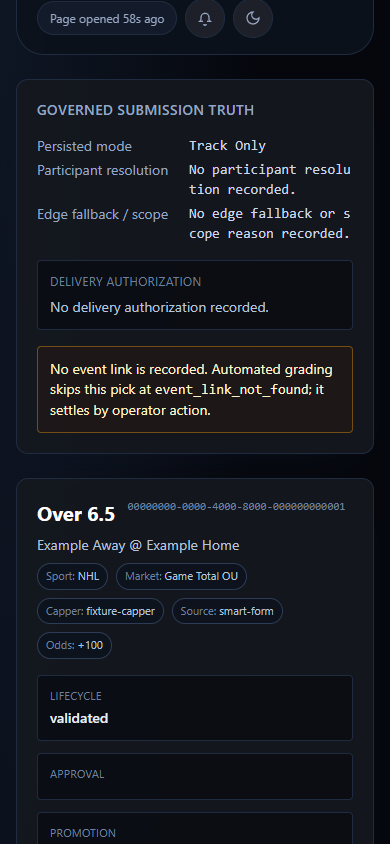
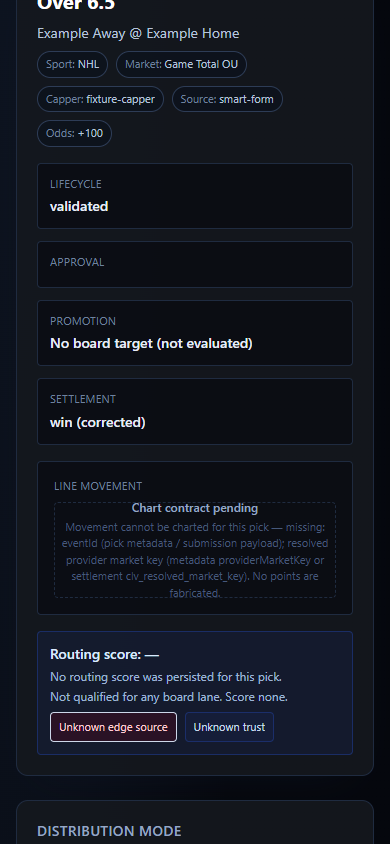
WORK-2026102806: refresh genuine mobile evidence for auditor

diff --git a/docs/06_status/proof/WORK-2026102806/verification.md b/docs/06_status/proof/WORK-2026102806/verification.md
@@ -31,6 +31,8 @@ Status: Product verification complete for the admitted lane. Governance routing 
 - `pnpm exec tsx scripts/ci/r-level-check.ts --base origin/main --head HEAD`: PASS, operator-ui, on d572c0747.
 - `pnpm verify` on 5391c9d6b: static phase PASS; local live database stage refused the loopback target. The work order specifies CI-only staging verification.
 - [CI verify and staging database proof](https://github.com/griff843/Unit-Talk-v2/actions/runs/40910243492): PASS on 918a48fd49a003e266c349e3629993f0fbeb2078, including the d572c0747 product code and subsequent proof-only changes. New proof commits trigger a fresh CI run before executor handoff.
+- [CI verify and staging database proof on 5b73b6fdd](https://github.com/griff843/Unit-Talk-v2/actions/runs/40919185777): PASS. The subsequent screenshot recapture is proof-only; product source is unchanged.
+- `pnpm exec tsx scripts/ops/proof-auditor-gate.ts --proof-dir docs/06_status/proof/WORK-2026102806 --sha 5b73b6fdd6d91a96ccf65624b80201b55ffe78a3 --require-executed-command "pnpm test:db" --json`: PASS after a fresh mobile detail capture. The previous PNG accidentally contained the binary bytes TBD, which the auditor scans as text. The replacement is a genuine browser capture centered on the corrected settlement, not an edited image.
 
 ## Browser evidence
 
